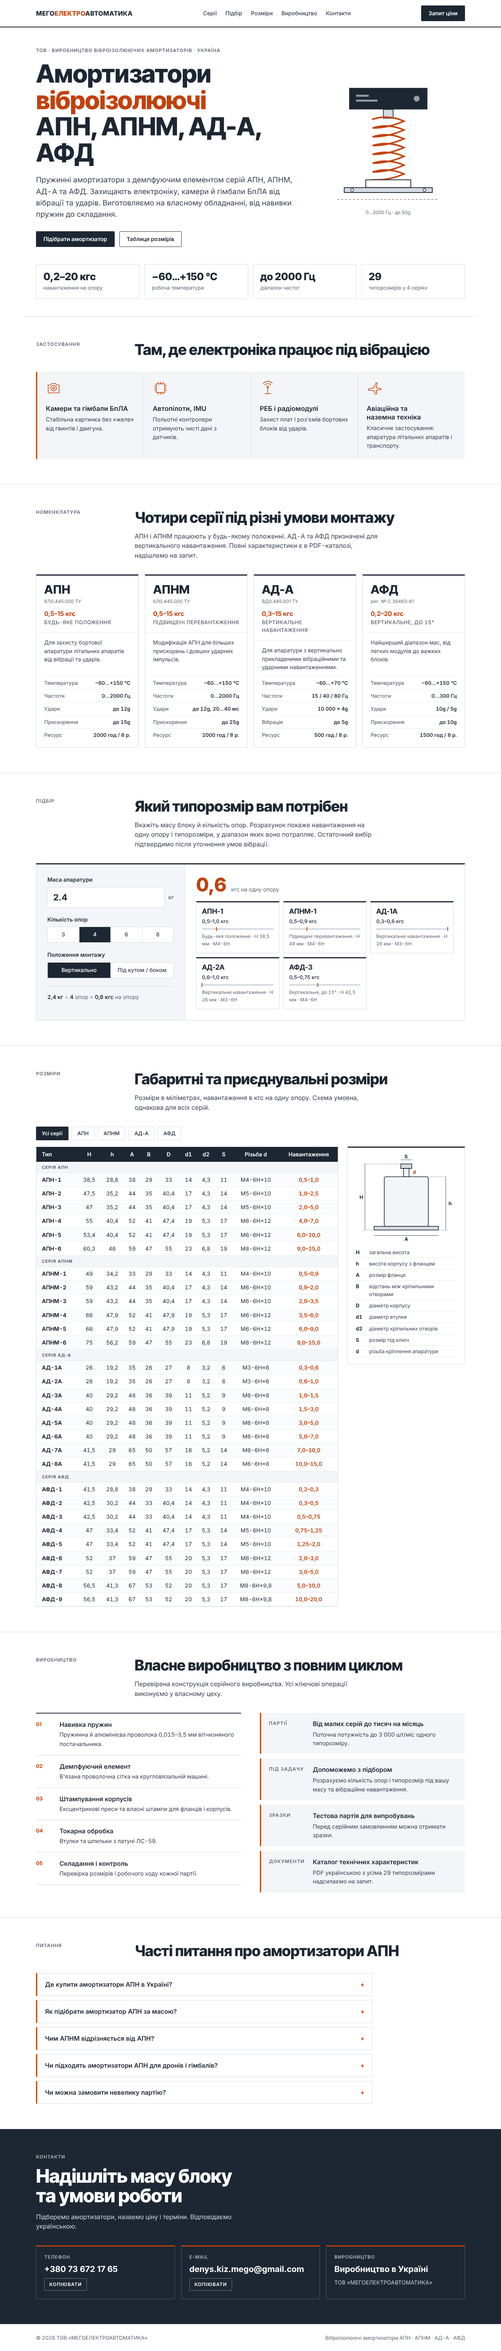
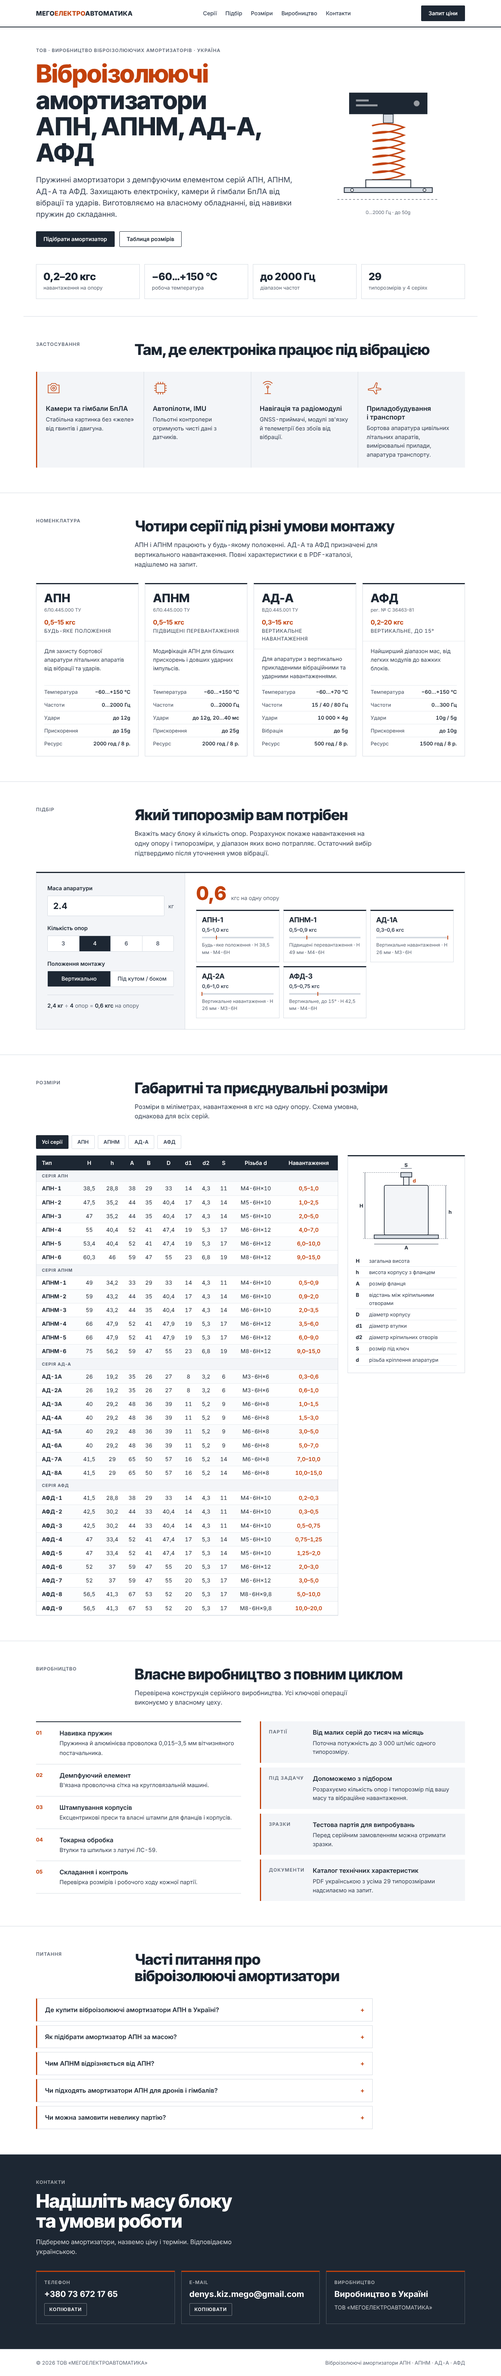
Neutral civil-aviation positioning: drop РЕБ mentions (#5)
Claude-Session: https://claude.ai/code/session_01TnF1fdaB3bLdkCLHeSbq31

diff --git a/index.html b/index.html
@@ -11,7 +11,7 @@
 <meta property="og:title" content="Віброізолюючі амортизатори АПН, АПНМ, АД-А, АФД від виробника">
 <meta property="og:description" content="29 типорозмірів віброізолюючих амортизаторів. Виробництво в Україні, підбір за масою, партії під замовлення.">
 <meta property="og:locale" content="uk_UA">
-<script type="application/ld+json">[{"@context": "https://schema.org", "@type": "Organization", "@id": "https://megoelectro.com.ua/#org", "name": "ТОВ «МЕГОЕЛЕКТРОАВТОМАТИКА»", "alternateName": "MEGOELECTROAVTOMATIKA", "url": "https://megoelectro.com.ua/", "email": "denys.kiz.mego@gmail.com", "telephone": "+380736721765", "areaServed": "UA", "address": {"@type": "PostalAddress", "addressCountry": "UA"}, "description": "Виробник віброізолюючих амортизаторів АПН, АПНМ, АД-А, АФД в Україні."}, {"@context": "https://schema.org", "@type": "ItemList", "name": "Амортизатори АПН, АПНМ, АД-А, АФД", "itemListElement": [{"@type": "ListItem", "position": 1, "item": {"@type": "Product", "name": "Амортизатор АПН-1", "sku": "АПН-1", "brand": {"@type": "Brand", "name": "МЕГОЕЛЕКТРОАВТОМАТИКА"}, "description": "Віброізолюючий амортизатор АПН-1, навантаження 0,5–1,0 кгс на опору, висота H 38,5 мм, різьба М4-6H×10.", "manufacturer": {"@id": "https://megoelectro.com.ua/#org"}}}, {"@type": "ListItem", "position": 2, "item": {"@type": "Product", "name": "Амортизатор АПН-2", "sku": "АПН-2", "brand": {"@type": "Brand", "name": "МЕГОЕЛЕКТРОАВТОМАТИКА"}, "description": "Віброізолюючий амортизатор АПН-2, навантаження 1,0–2,5 кгс на опору, висота H 47,5 мм, різьба М5-6H×10.", "manufacturer": {"@id": "https://megoelectro.com.ua/#org"}}}, {"@type": "ListItem", "position": 3, "item": {"@type": "Product", "name": "Амортизатор АПН-3", "sku": "АПН-3", "brand": {"@type": "Brand", "name": "МЕГОЕЛЕКТРОАВТОМАТИКА"}, "description": "Віброізолюючий амортизатор АПН-3, навантаження 2,0–5,0 кгс на опору, висота H 47,0 мм, різьба М5-6H×10.", "manufacturer": {"@id": "https://megoelectro.com.ua/#org"}}}, {"@type": "ListItem", "position": 4, "item": {"@type": "Product", "name": "Амортизатор АПН-4", "sku": "АПН-4", "brand": {"@type": "Brand", "name": "МЕГОЕЛЕКТРОАВТОМАТИКА"}, "description": "Віброізолюючий амортизатор АПН-4, навантаження 4,0–7,0 кгс на опору, висота H 55,0 мм, різьба М6-6H×12.", "manufacturer": {"@id": "https://megoelectro.com.ua/#org"}}}, {"@type": "ListItem", "position": 5, "item": {"@type": "Product", "name": "Амортизатор АПН-5", "sku": "АПН-5", "brand": {"@type": "Brand", "name": "МЕГОЕЛЕКТРОАВТОМАТИКА"}, "description": "Віброізолюючий амортизатор АПН-5, навантаження 6,0–10,0 кгс на опору, висота H 53,4 мм, різьба М6-6H×12.", "manufacturer": {"@id": "https://megoelectro.com.ua/#org"}}}, {"@type": "ListItem", "position": 6, "item": {"@type": "Product", "name": "Амортизатор АПН-6", "sku": "АПН-6", "brand": {"@type": "Brand", "name": "МЕГОЕЛЕКТРОАВТОМАТИКА"}, "description": "Віброізолюючий амортизатор АПН-6, навантаження 9,0–15,0 кгс на опору, висота H 60,3 мм, різьба М8-6H×12.", "manufacturer": {"@id": "https://megoelectro.com.ua/#org"}}}, {"@type": "ListItem", "position": 7, "item": {"@type": "Product", "name": "Амортизатор АПНМ-1", "sku": "АПНМ-1", "brand": {"@type": "Brand", "name": "МЕГОЕЛЕКТРОАВТОМАТИКА"}, "description": "Віброізолюючий амортизатор АПНМ-1, навантаження 0,5–0,9 кгс на опору, висота H 49,0 мм, різьба М4-6H×10.", "manufacturer": {"@id": "https://megoelectro.com.ua/#org"}}}, {"@type": "ListItem", "position": 8, "item": {"@type": "Product", "name": "Амортизатор АПНМ-2", "sku": "АПНМ-2", "brand": {"@type": "Brand", "name": "МЕГОЕЛЕКТРОАВТОМАТИКА"}, "description": "Віброізолюючий амортизатор АПНМ-2, навантаження 0,9–2,0 кгс на опору, висота H 59,0 мм, різьба М6-6H×10.", "manufacturer": {"@id": "https://megoelectro.com.ua/#org"}}}, {"@type": "ListItem", "position": 9, "item": {"@type": "Product", "name": "Амортизатор АПНМ-3", "sku": "АПНМ-3", "brand": {"@type": "Brand", "name": "МЕГОЕЛЕКТРОАВТОМАТИКА"}, "description": "Віброізолюючий амортизатор АПНМ-3, навантаження 2,0–3,5 кгс на опору, висота H 59,0 мм, різьба М6-6H×10.", "manufacturer": {"@id": "https://megoelectro.com.ua/#org"}}}, {"@type": "ListItem", "position": 10, "item": {"@type": "Product", "name": "Амортизатор АПНМ-4", "sku": "АПНМ-4", "brand": {"@type": "Brand", "name": "МЕГОЕЛЕКТРОАВТОМАТИКА"}, "description": "Віброізолюючий амортизатор АПНМ-4, навантаження 3,5–6,0 кгс на опору, висота H 66,0 мм, різьба М6-6H×12.", "manufacturer": {"@id": "https://megoelectro.com.ua/#org"}}}, {"@type": "ListItem", "position": 11, "item": {"@type": "Product", "name": "Амортизатор АПНМ-5", "sku": "АПНМ-5", "brand": {"@type": "Brand", "name": "МЕГОЕЛЕКТРОАВТОМАТИКА"}, "description": "Віброізолюючий амортизатор АПНМ-5, навантаження 6,0–9,0 кгс на опору, висота H 66,0 мм, різьба М6-6H×12.", "manufacturer": {"@id": "https://megoelectro.com.ua/#org"}}}, {"@type": "ListItem", "position": 12, "item": {"@type": "Product", "name": "Амортизатор АПНМ-6", "sku": "АПНМ-6", "brand": {"@type": "Brand", "name": "МЕГОЕЛЕКТРОАВТОМАТИКА"}, "description": "Віброізолюючий амортизатор АПНМ-6, навантаження 9,0–15,0 кгс на опору, висота H 75,0 мм, різьба М8-6H×12.", "manufacturer": {"@id": "https://megoelectro.com.ua/#org"}}}, {"@type": "ListItem", "position": 13, "item": {"@type": "Product", "name": "Амортизатор АД-1А", "sku": "АД-1А", "brand": {"@type": "Brand", "name": "МЕГОЕЛЕКТРОАВТОМАТИКА"}, "description": "Віброізолюючий амортизатор АД-1А, навантаження 0,3–0,6 кгс на опору, висота H 26,0 мм, різьба М3-6H×6.", "manufacturer": {"@id": "https://megoelectro.com.ua/#org"}}}, {"@type": "ListItem", "position": 14, "item": {"@type": "Product", "name": "Амортизатор АД-2А", "sku": "АД-2А", "brand": {"@type": "Brand", "name": "МЕГОЕЛЕКТРОАВТОМАТИКА"}, "description": "Віброізолюючий амортизатор АД-2А, навантаження 0,6–1,0 кгс на опору, висота H 26,0 мм, різьба М3-6H×6.", "manufacturer": {"@id": "https://megoelectro.com.ua/#org"}}}, {"@type": "ListItem", "position": 15, "item": {"@type": "Product", "name": "Амортизатор АД-3А", "sku": "АД-3А", "brand": {"@type": "Brand", "name": "МЕГОЕЛЕКТРОАВТОМАТИКА"}, "description": "Віброізолюючий амортизатор АД-3А, навантаження 1,0–1,5 кгс на опору, висота H 40,0 мм, різьба М6-6H×8.", "manufacturer": {"@id": "https://megoelectro.com.ua/#org"}}}, {"@type": "ListItem", "position": 16, "item": {"@type": "Product", "name": "Амортизатор АД-4А", "sku": "АД-4А", "brand": {"@type": "Brand", "name": "МЕГОЕЛЕКТРОАВТОМАТИКА"}, "description": "Віброізолюючий амортизатор АД-4А, навантаження 1,5–3,0 кгс на опору, висота H 40,0 мм, різьба М6-6H×8.", "manufacturer": {"@id": "https://megoelectro.com.ua/#org"}}}, {"@type": "ListItem", "position": 17, "item": {"@type": "Product", "name": "Амортизатор АД-5А", "sku": "АД-5А", "brand": {"@type": "Brand", "name": "МЕГОЕЛЕКТРОАВТОМАТИКА"}, "description": "Віброізолюючий амортизатор АД-5А, навантаження 3,0–5,0 кгс на опору, висота H 40,0 мм, різьба М6-6H×8.", "manufacturer": {"@id": "https://megoelectro.com.ua/#org"}}}, {"@type": "ListItem", "position": 18, "item": {"@type": "Product", "name": "Амортизатор АД-6А", "sku": "АД-6А", "brand": {"@type": "Brand", "name": "МЕГОЕЛЕКТРОАВТОМАТИКА"}, "description": "Віброізолюючий амортизатор АД-6А, навантаження 5,0–7,0 кгс на опору, висота H 40,0 мм, різьба М6-6H×8.", "manufacturer": {"@id": "https://megoelectro.com.ua/#org"}}}, {"@type": "ListItem", "position": 19, "item": {"@type": "Product", "name": "Амортизатор АД-7А", "sku": "АД-7А", "brand": {"@type": "Brand", "name": "МЕГОЕЛЕКТРОАВТОМАТИКА"}, "description": "Віброізолюючий амортизатор АД-7А, навантаження 7,0–10,0 кгс на опору, висота H 41,5 мм, різьба М6-6H×8.", "manufacturer": {"@id": "https://megoelectro.com.ua/#org"}}}, {"@type": "ListItem", "position": 20, "item": {"@type": "Product", "name": "Амортизатор АД-8А", "sku": "АД-8А", "brand": {"@type": "Brand", "name": "МЕГОЕЛЕКТРОАВТОМАТИКА"}, "description": "Віброізолюючий амортизатор АД-8А, навантаження 10,0–15,0 кгс на опору, висота H 41,5 мм, різьба М6-6H×8.", "manufacturer": {"@id": "https://megoelectro.com.ua/#org"}}}, {"@type": "ListItem", "position": 21, "item": {"@type": "Product", "name": "Амортизатор АФД-1", "sku": "АФД-1", "brand": {"@type": "Brand", "name": "МЕГОЕЛЕКТРОАВТОМАТИКА"}, "description": "Віброізолюючий амортизатор АФД-1, навантаження 0,2–0,3 кгс на опору, висота H 41,5 мм, різьба М4-6H×10.", "manufacturer": {"@id": "https://megoelectro.com.ua/#org"}}}, {"@type": "ListItem", "position": 22, "item": {"@type": "Product", "name": "Амортизатор АФД-2", "sku": "АФД-2", "brand": {"@type": "Brand", "name": "МЕГОЕЛЕКТРОАВТОМАТИКА"}, "description": "Віброізолюючий амортизатор АФД-2, навантаження 0,3–0,5 кгс на опору, висота H 42,5 мм, різьба М4-6H×10.", "manufacturer": {"@id": "https://megoelectro.com.ua/#org"}}}, {"@type": "ListItem", "position": 23, "item": {"@type": "Product", "name": "Амортизатор АФД-3", "sku": "АФД-3", "brand": {"@type": "Brand", "name": "МЕГОЕЛЕКТРОАВТОМАТИКА"}, "description": "Віброізолюючий амортизатор АФД-3, навантаження 0,5–0,75 кгс на опору, висота H 42,5 мм, різьба М4-6H×10.", "manufacturer": {"@id": "https://megoelectro.com.ua/#org"}}}, {"@type": "ListItem", "position": 24, "item": {"@type": "Product", "name": "Амортизатор АФД-4", "sku": "АФД-4", "brand": {"@type": "Brand", "name": "МЕГОЕЛЕКТРОАВТОМАТИКА"}, "description": "Віброізолюючий амортизатор АФД-4, навантаження 0,75–1,25 кгс на опору, висота H 47,0 мм, різьба М5-6H×10.", "manufacturer": {"@id": "https://megoelectro.com.ua/#org"}}}, {"@type": "ListItem", "position": 25, "item": {"@type": "Product", "name": "Амортизатор АФД-5", "sku": "АФД-5", "brand": {"@type": "Brand", "name": "МЕГОЕЛЕКТРОАВТОМАТИКА"}, "description": "Віброізолюючий амортизатор АФД-5, навантаження 1,25–2,0 кгс на опору, висота H 47,0 мм, різьба М5-6H×10.", "manufacturer": {"@id": "https://megoelectro.com.ua/#org"}}}, {"@type": "ListItem", "position": 26, "item": {"@type": "Product", "name": "Амортизатор АФД-6", "sku": "АФД-6", "brand": {"@type": "Brand", "name": "МЕГОЕЛЕКТРОАВТОМАТИКА"}, "description": "Віброізолюючий амортизатор АФД-6, навантаження 2,0–3,0 кгс на опору, висота H 52,0 мм, різьба М6-6H×12.", "manufacturer": {"@id": "https://megoelectro.com.ua/#org"}}}, {"@type": "ListItem", "position": 27, "item": {"@type": "Product", "name": "Амортизатор АФД-7", "sku": "АФД-7", "brand": {"@type": "Brand", "name": "МЕГОЕЛЕКТРОАВТОМАТИКА"}, "description": "Віброізолюючий амортизатор АФД-7, навантаження 3,0–5,0 кгс на опору, висота H 52,0 мм, різьба М6-6H×12.", "manufacturer": {"@id": "https://megoelectro.com.ua/#org"}}}, {"@type": "ListItem", "position": 28, "item": {"@type": "Product", "name": "Амортизатор АФД-8", "sku": "АФД-8", "brand": {"@type": "Brand", "name": "МЕГОЕЛЕКТРОАВТОМАТИКА"}, "description": "Віброізолюючий амортизатор АФД-8, навантаження 5,0–10,0 кгс на опору, висота H 56,5 мм, різьба М8-6H×9,8.", "manufacturer": {"@id": "https://megoelectro.com.ua/#org"}}}, {"@type": "ListItem", "position": 29, "item": {"@type": "Product", "name": "Амортизатор АФД-9", "sku": "АФД-9", "brand": {"@type": "Brand", "name": "МЕГОЕЛЕКТРОАВТОМАТИКА"}, "description": "Віброізолюючий амортизатор АФД-9, навантаження 10,0–20,0 кгс на опору, висота H 56,5 мм, різьба М8-6H×9,8.", "manufacturer": {"@id": "https://megoelectro.com.ua/#org"}}}]}, {"@context": "https://schema.org", "@type": "FAQPage", "mainEntity": [{"@type": "Question", "name": "Де купити віброізолюючі амортизатори АПН в Україні?", "acceptedAnswer": {"@type": "Answer", "text": "ТОВ «МЕГОЕЛЕКТРОАВТОМАТИКА» виготовляє амортизатори АПН-1…АПН-6, АПНМ-1…АПНМ-6, АД-1А…АД-8А та АФД-1…АФД-9 на власному виробництві в Україні. Замовлення: +380 73 672 17 65, denys.kiz.mego@gmail.com."}}, {"@type": "Question", "name": "Як підібрати амортизатор АПН за масою?", "acceptedAnswer": {"@type": "Answer", "text": "Розділіть масу апаратури на кількість опор. Отримане навантаження на одну опору має потрапити в діапазон типорозміру: АПН-1 — 0,5–1,0 кгс, АПН-2 — 1,0–2,5 кгс, АПН-3 — 2,0–5,0 кгс, АПН-4 — 4,0–7,0 кгс, АПН-5 — 6,0–10,0 кгс, АПН-6 — 9,0–15,0 кгс."}}, {"@type": "Question", "name": "Чим АПНМ відрізняється від АПН?", "acceptedAnswer": {"@type": "Answer", "text": "АПНМ — модифікація АПН для більших лінійних прискорень (до 25g проти 15g) і довших ударних імпульсів (20…40 мс). Діапазони навантажень близькі, приєднувальні розміри відрізняються висотою."}}, {"@type": "Question", "name": "Чи підходять амортизатори АПН для дронів і гімбалів?", "acceptedAnswer": {"@type": "Answer", "text": "Так. Амортизатори АПН і АФД гасять вібрацію від гвинтів і двигуна, тому їх ставлять під камери, гімбали, автопілоти та блоки РЕБ на БпЛА."}}, {"@type": "Question", "name": "Чи можна замовити невелику партію?", "acceptedAnswer": {"@type": "Answer", "text": "Так. Виготовляємо як малі партії і зразки для випробувань, так і серії до кількох тисяч штук на місяць."}}]}]</script>
+<script type="application/ld+json">[{"@context": "https://schema.org", "@type": "Organization", "@id": "https://megoelectro.com.ua/#org", "name": "ТОВ «МЕГОЕЛЕКТРОАВТОМАТИКА»", "alternateName": "MEGOELECTROAVTOMATIKA", "url": "https://megoelectro.com.ua/", "email": "denys.kiz.mego@gmail.com", "telephone": "+380736721765", "areaServed": "UA", "address": {"@type": "PostalAddress", "addressCountry": "UA"}, "description": "Виробник віброізолюючих амортизаторів АПН, АПНМ, АД-А, АФД в Україні."}, {"@context": "https://schema.org", "@type": "ItemList", "name": "Амортизатори АПН, АПНМ, АД-А, АФД", "itemListElement": [{"@type": "ListItem", "position": 1, "item": {"@type": "Product", "name": "Амортизатор АПН-1", "sku": "АПН-1", "brand": {"@type": "Brand", "name": "МЕГОЕЛЕКТРОАВТОМАТИКА"}, "description": "Віброізолюючий амортизатор АПН-1, навантаження 0,5–1,0 кгс на опору, висота H 38,5 мм, різьба М4-6H×10.", "manufacturer": {"@id": "https://megoelectro.com.ua/#org"}}}, {"@type": "ListItem", "position": 2, "item": {"@type": "Product", "name": "Амортизатор АПН-2", "sku": "АПН-2", "brand": {"@type": "Brand", "name": "МЕГОЕЛЕКТРОАВТОМАТИКА"}, "description": "Віброізолюючий амортизатор АПН-2, навантаження 1,0–2,5 кгс на опору, висота H 47,5 мм, різьба М5-6H×10.", "manufacturer": {"@id": "https://megoelectro.com.ua/#org"}}}, {"@type": "ListItem", "position": 3, "item": {"@type": "Product", "name": "Амортизатор АПН-3", "sku": "АПН-3", "brand": {"@type": "Brand", "name": "МЕГОЕЛЕКТРОАВТОМАТИКА"}, "description": "Віброізолюючий амортизатор АПН-3, навантаження 2,0–5,0 кгс на опору, висота H 47,0 мм, різьба М5-6H×10.", "manufacturer": {"@id": "https://megoelectro.com.ua/#org"}}}, {"@type": "ListItem", "position": 4, "item": {"@type": "Product", "name": "Амортизатор АПН-4", "sku": "АПН-4", "brand": {"@type": "Brand", "name": "МЕГОЕЛЕКТРОАВТОМАТИКА"}, "description": "Віброізолюючий амортизатор АПН-4, навантаження 4,0–7,0 кгс на опору, висота H 55,0 мм, різьба М6-6H×12.", "manufacturer": {"@id": "https://megoelectro.com.ua/#org"}}}, {"@type": "ListItem", "position": 5, "item": {"@type": "Product", "name": "Амортизатор АПН-5", "sku": "АПН-5", "brand": {"@type": "Brand", "name": "МЕГОЕЛЕКТРОАВТОМАТИКА"}, "description": "Віброізолюючий амортизатор АПН-5, навантаження 6,0–10,0 кгс на опору, висота H 53,4 мм, різьба М6-6H×12.", "manufacturer": {"@id": "https://megoelectro.com.ua/#org"}}}, {"@type": "ListItem", "position": 6, "item": {"@type": "Product", "name": "Амортизатор АПН-6", "sku": "АПН-6", "brand": {"@type": "Brand", "name": "МЕГОЕЛЕКТРОАВТОМАТИКА"}, "description": "Віброізолюючий амортизатор АПН-6, навантаження 9,0–15,0 кгс на опору, висота H 60,3 мм, різьба М8-6H×12.", "manufacturer": {"@id": "https://megoelectro.com.ua/#org"}}}, {"@type": "ListItem", "position": 7, "item": {"@type": "Product", "name": "Амортизатор АПНМ-1", "sku": "АПНМ-1", "brand": {"@type": "Brand", "name": "МЕГОЕЛЕКТРОАВТОМАТИКА"}, "description": "Віброізолюючий амортизатор АПНМ-1, навантаження 0,5–0,9 кгс на опору, висота H 49,0 мм, різьба М4-6H×10.", "manufacturer": {"@id": "https://megoelectro.com.ua/#org"}}}, {"@type": "ListItem", "position": 8, "item": {"@type": "Product", "name": "Амортизатор АПНМ-2", "sku": "АПНМ-2", "brand": {"@type": "Brand", "name": "МЕГОЕЛЕКТРОАВТОМАТИКА"}, "description": "Віброізолюючий амортизатор АПНМ-2, навантаження 0,9–2,0 кгс на опору, висота H 59,0 мм, різьба М6-6H×10.", "manufacturer": {"@id": "https://megoelectro.com.ua/#org"}}}, {"@type": "ListItem", "position": 9, "item": {"@type": "Product", "name": "Амортизатор АПНМ-3", "sku": "АПНМ-3", "brand": {"@type": "Brand", "name": "МЕГОЕЛЕКТРОАВТОМАТИКА"}, "description": "Віброізолюючий амортизатор АПНМ-3, навантаження 2,0–3,5 кгс на опору, висота H 59,0 мм, різьба М6-6H×10.", "manufacturer": {"@id": "https://megoelectro.com.ua/#org"}}}, {"@type": "ListItem", "position": 10, "item": {"@type": "Product", "name": "Амортизатор АПНМ-4", "sku": "АПНМ-4", "brand": {"@type": "Brand", "name": "МЕГОЕЛЕКТРОАВТОМАТИКА"}, "description": "Віброізолюючий амортизатор АПНМ-4, навантаження 3,5–6,0 кгс на опору, висота H 66,0 мм, різьба М6-6H×12.", "manufacturer": {"@id": "https://megoelectro.com.ua/#org"}}}, {"@type": "ListItem", "position": 11, "item": {"@type": "Product", "name": "Амортизатор АПНМ-5", "sku": "АПНМ-5", "brand": {"@type": "Brand", "name": "МЕГОЕЛЕКТРОАВТОМАТИКА"}, "description": "Віброізолюючий амортизатор АПНМ-5, навантаження 6,0–9,0 кгс на опору, висота H 66,0 мм, різьба М6-6H×12.", "manufacturer": {"@id": "https://megoelectro.com.ua/#org"}}}, {"@type": "ListItem", "position": 12, "item": {"@type": "Product", "name": "Амортизатор АПНМ-6", "sku": "АПНМ-6", "brand": {"@type": "Brand", "name": "МЕГОЕЛЕКТРОАВТОМАТИКА"}, "description": "Віброізолюючий амортизатор АПНМ-6, навантаження 9,0–15,0 кгс на опору, висота H 75,0 мм, різьба М8-6H×12.", "manufacturer": {"@id": "https://megoelectro.com.ua/#org"}}}, {"@type": "ListItem", "position": 13, "item": {"@type": "Product", "name": "Амортизатор АД-1А", "sku": "АД-1А", "brand": {"@type": "Brand", "name": "МЕГОЕЛЕКТРОАВТОМАТИКА"}, "description": "Віброізолюючий амортизатор АД-1А, навантаження 0,3–0,6 кгс на опору, висота H 26,0 мм, різьба М3-6H×6.", "manufacturer": {"@id": "https://megoelectro.com.ua/#org"}}}, {"@type": "ListItem", "position": 14, "item": {"@type": "Product", "name": "Амортизатор АД-2А", "sku": "АД-2А", "brand": {"@type": "Brand", "name": "МЕГОЕЛЕКТРОАВТОМАТИКА"}, "description": "Віброізолюючий амортизатор АД-2А, навантаження 0,6–1,0 кгс на опору, висота H 26,0 мм, різьба М3-6H×6.", "manufacturer": {"@id": "https://megoelectro.com.ua/#org"}}}, {"@type": "ListItem", "position": 15, "item": {"@type": "Product", "name": "Амортизатор АД-3А", "sku": "АД-3А", "brand": {"@type": "Brand", "name": "МЕГОЕЛЕКТРОАВТОМАТИКА"}, "description": "Віброізолюючий амортизатор АД-3А, навантаження 1,0–1,5 кгс на опору, висота H 40,0 мм, різьба М6-6H×8.", "manufacturer": {"@id": "https://megoelectro.com.ua/#org"}}}, {"@type": "ListItem", "position": 16, "item": {"@type": "Product", "name": "Амортизатор АД-4А", "sku": "АД-4А", "brand": {"@type": "Brand", "name": "МЕГОЕЛЕКТРОАВТОМАТИКА"}, "description": "Віброізолюючий амортизатор АД-4А, навантаження 1,5–3,0 кгс на опору, висота H 40,0 мм, різьба М6-6H×8.", "manufacturer": {"@id": "https://megoelectro.com.ua/#org"}}}, {"@type": "ListItem", "position": 17, "item": {"@type": "Product", "name": "Амортизатор АД-5А", "sku": "АД-5А", "brand": {"@type": "Brand", "name": "МЕГОЕЛЕКТРОАВТОМАТИКА"}, "description": "Віброізолюючий амортизатор АД-5А, навантаження 3,0–5,0 кгс на опору, висота H 40,0 мм, різьба М6-6H×8.", "manufacturer": {"@id": "https://megoelectro.com.ua/#org"}}}, {"@type": "ListItem", "position": 18, "item": {"@type": "Product", "name": "Амортизатор АД-6А", "sku": "АД-6А", "brand": {"@type": "Brand", "name": "МЕГОЕЛЕКТРОАВТОМАТИКА"}, "description": "Віброізолюючий амортизатор АД-6А, навантаження 5,0–7,0 кгс на опору, висота H 40,0 мм, різьба М6-6H×8.", "manufacturer": {"@id": "https://megoelectro.com.ua/#org"}}}, {"@type": "ListItem", "position": 19, "item": {"@type": "Product", "name": "Амортизатор АД-7А", "sku": "АД-7А", "brand": {"@type": "Brand", "name": "МЕГОЕЛЕКТРОАВТОМАТИКА"}, "description": "Віброізолюючий амортизатор АД-7А, навантаження 7,0–10,0 кгс на опору, висота H 41,5 мм, різьба М6-6H×8.", "manufacturer": {"@id": "https://megoelectro.com.ua/#org"}}}, {"@type": "ListItem", "position": 20, "item": {"@type": "Product", "name": "Амортизатор АД-8А", "sku": "АД-8А", "brand": {"@type": "Brand", "name": "МЕГОЕЛЕКТРОАВТОМАТИКА"}, "description": "Віброізолюючий амортизатор АД-8А, навантаження 10,0–15,0 кгс на опору, висота H 41,5 мм, різьба М6-6H×8.", "manufacturer": {"@id": "https://megoelectro.com.ua/#org"}}}, {"@type": "ListItem", "position": 21, "item": {"@type": "Product", "name": "Амортизатор АФД-1", "sku": "АФД-1", "brand": {"@type": "Brand", "name": "МЕГОЕЛЕКТРОАВТОМАТИКА"}, "description": "Віброізолюючий амортизатор АФД-1, навантаження 0,2–0,3 кгс на опору, висота H 41,5 мм, різьба М4-6H×10.", "manufacturer": {"@id": "https://megoelectro.com.ua/#org"}}}, {"@type": "ListItem", "position": 22, "item": {"@type": "Product", "name": "Амортизатор АФД-2", "sku": "АФД-2", "brand": {"@type": "Brand", "name": "МЕГОЕЛЕКТРОАВТОМАТИКА"}, "description": "Віброізолюючий амортизатор АФД-2, навантаження 0,3–0,5 кгс на опору, висота H 42,5 мм, різьба М4-6H×10.", "manufacturer": {"@id": "https://megoelectro.com.ua/#org"}}}, {"@type": "ListItem", "position": 23, "item": {"@type": "Product", "name": "Амортизатор АФД-3", "sku": "АФД-3", "brand": {"@type": "Brand", "name": "МЕГОЕЛЕКТРОАВТОМАТИКА"}, "description": "Віброізолюючий амортизатор АФД-3, навантаження 0,5–0,75 кгс на опору, висота H 42,5 мм, різьба М4-6H×10.", "manufacturer": {"@id": "https://megoelectro.com.ua/#org"}}}, {"@type": "ListItem", "position": 24, "item": {"@type": "Product", "name": "Амортизатор АФД-4", "sku": "АФД-4", "brand": {"@type": "Brand", "name": "МЕГОЕЛЕКТРОАВТОМАТИКА"}, "description": "Віброізолюючий амортизатор АФД-4, навантаження 0,75–1,25 кгс на опору, висота H 47,0 мм, різьба М5-6H×10.", "manufacturer": {"@id": "https://megoelectro.com.ua/#org"}}}, {"@type": "ListItem", "position": 25, "item": {"@type": "Product", "name": "Амортизатор АФД-5", "sku": "АФД-5", "brand": {"@type": "Brand", "name": "МЕГОЕЛЕКТРОАВТОМАТИКА"}, "description": "Віброізолюючий амортизатор АФД-5, навантаження 1,25–2,0 кгс на опору, висота H 47,0 мм, різьба М5-6H×10.", "manufacturer": {"@id": "https://megoelectro.com.ua/#org"}}}, {"@type": "ListItem", "position": 26, "item": {"@type": "Product", "name": "Амортизатор АФД-6", "sku": "АФД-6", "brand": {"@type": "Brand", "name": "МЕГОЕЛЕКТРОАВТОМАТИКА"}, "description": "Віброізолюючий амортизатор АФД-6, навантаження 2,0–3,0 кгс на опору, висота H 52,0 мм, різьба М6-6H×12.", "manufacturer": {"@id": "https://megoelectro.com.ua/#org"}}}, {"@type": "ListItem", "position": 27, "item": {"@type": "Product", "name": "Амортизатор АФД-7", "sku": "АФД-7", "brand": {"@type": "Brand", "name": "МЕГОЕЛЕКТРОАВТОМАТИКА"}, "description": "Віброізолюючий амортизатор АФД-7, навантаження 3,0–5,0 кгс на опору, висота H 52,0 мм, різьба М6-6H×12.", "manufacturer": {"@id": "https://megoelectro.com.ua/#org"}}}, {"@type": "ListItem", "position": 28, "item": {"@type": "Product", "name": "Амортизатор АФД-8", "sku": "АФД-8", "brand": {"@type": "Brand", "name": "МЕГОЕЛЕКТРОАВТОМАТИКА"}, "description": "Віброізолюючий амортизатор АФД-8, навантаження 5,0–10,0 кгс на опору, висота H 56,5 мм, різьба М8-6H×9,8.", "manufacturer": {"@id": "https://megoelectro.com.ua/#org"}}}, {"@type": "ListItem", "position": 29, "item": {"@type": "Product", "name": "Амортизатор АФД-9", "sku": "АФД-9", "brand": {"@type": "Brand", "name": "МЕГОЕЛЕКТРОАВТОМАТИКА"}, "description": "Віброізолюючий амортизатор АФД-9, навантаження 10,0–20,0 кгс на опору, висота H 56,5 мм, різьба М8-6H×9,8.", "manufacturer": {"@id": "https://megoelectro.com.ua/#org"}}}]}, {"@context": "https://schema.org", "@type": "FAQPage", "mainEntity": [{"@type": "Question", "name": "Де купити віброізолюючі амортизатори АПН в Україні?", "acceptedAnswer": {"@type": "Answer", "text": "ТОВ «МЕГОЕЛЕКТРОАВТОМАТИКА» виготовляє амортизатори АПН-1…АПН-6, АПНМ-1…АПНМ-6, АД-1А…АД-8А та АФД-1…АФД-9 на власному виробництві в Україні. Замовлення: +380 73 672 17 65, denys.kiz.mego@gmail.com."}}, {"@type": "Question", "name": "Як підібрати амортизатор АПН за масою?", "acceptedAnswer": {"@type": "Answer", "text": "Розділіть масу апаратури на кількість опор. Отримане навантаження на одну опору має потрапити в діапазон типорозміру: АПН-1 — 0,5–1,0 кгс, АПН-2 — 1,0–2,5 кгс, АПН-3 — 2,0–5,0 кгс, АПН-4 — 4,0–7,0 кгс, АПН-5 — 6,0–10,0 кгс, АПН-6 — 9,0–15,0 кгс."}}, {"@type": "Question", "name": "Чим АПНМ відрізняється від АПН?", "acceptedAnswer": {"@type": "Answer", "text": "АПНМ — модифікація АПН для більших лінійних прискорень (до 25g проти 15g) і довших ударних імпульсів (20…40 мс). Діапазони навантажень близькі, приєднувальні розміри відрізняються висотою."}}, {"@type": "Question", "name": "Чи підходять амортизатори АПН для дронів і гімбалів?", "acceptedAnswer": {"@type": "Answer", "text": "Так. Амортизатори АПН і АФД гасять вібрацію від гвинтів і двигуна, тому їх ставлять під камери, гімбали, автопілоти, навігаційні та радіомодулі на БпЛА і пілотованих літальних апаратах."}}, {"@type": "Question", "name": "Чи можна замовити невелику партію?", "acceptedAnswer": {"@type": "Answer", "text": "Так. Виготовляємо як малі партії і зразки для випробувань, так і серії до кількох тисяч штук на місяць."}}]}]</script>
 <link rel="preconnect" href="https://fonts.googleapis.com">
 <link rel="preconnect" href="https://fonts.gstatic.com" crossorigin>
 <link rel="stylesheet" href="https://fonts.googleapis.com/css2?family=Inter:wght@400;500;600;700;800&family=Inter+Tight:wght@700;800&display=swap">
@@ -287,11 +287,11 @@ footer .wrap{display:flex;justify-content:space-between;gap:16px;flex-wrap:wrap}
         </div>
         <div class="app">
           <svg viewBox="0 0 40 40"><path d="M20 34V18"/><path d="M12 12a11 11 0 0 1 16 0M8 8a16 16 0 0 1 24 0"/><circle cx="20" cy="17" r="2.5"/><path d="M12 34h16"/></svg>
-          <h3>РЕБ і радіомодулі</h3><p>Захист плат і роз'ємів бортових блоків від ударів.</p>
+          <h3>Навігація та радіомодулі</h3><p>GNSS-приймачі, модулі зв'язку й телеметрії без збоїв від вібрації.</p>
         </div>
         <div class="app">
           <svg viewBox="0 0 40 40"><path d="M4 22l14-3 6-13 3 1-3 12 12 2v3l-12 1 2 9-3 1-6-9-13-1z"/></svg>
-          <h3>Авіаційна та наземна техніка</h3><p>Класичне застосування: апаратура літальних апаратів і транспорту.</p>
+          <h3>Приладобудування і транспорт</h3><p>Бортова апаратура цивільних літальних апаратів, вимірювальні прилади, апаратура транспорту.</p>
         </div>
       </div>
     </div>
@@ -421,7 +421,7 @@ footer .wrap{display:flex;justify-content:space-between;gap:16px;flex-wrap:wrap}
         <details><summary>Де купити віброізолюючі амортизатори АПН в Україні?</summary><p>ТОВ «МЕГОЕЛЕКТРОАВТОМАТИКА» виготовляє амортизатори АПН-1…АПН-6, АПНМ-1…АПНМ-6, АД-1А…АД-8А та АФД-1…АФД-9 на власному виробництві в Україні. Замовлення: +380 73 672 17 65, denys.kiz.mego@gmail.com.</p></details>
         <details><summary>Як підібрати амортизатор АПН за масою?</summary><p>Розділіть масу апаратури на кількість опор. Отримане навантаження на одну опору має потрапити в діапазон типорозміру: АПН-1 — 0,5–1,0 кгс, АПН-2 — 1,0–2,5 кгс, АПН-3 — 2,0–5,0 кгс, АПН-4 — 4,0–7,0 кгс, АПН-5 — 6,0–10,0 кгс, АПН-6 — 9,0–15,0 кгс.</p></details>
         <details><summary>Чим АПНМ відрізняється від АПН?</summary><p>АПНМ — модифікація АПН для більших лінійних прискорень (до 25g проти 15g) і довших ударних імпульсів (20…40 мс). Діапазони навантажень близькі, приєднувальні розміри відрізняються висотою.</p></details>
-        <details><summary>Чи підходять амортизатори АПН для дронів і гімбалів?</summary><p>Так. Амортизатори АПН і АФД гасять вібрацію від гвинтів і двигуна, тому їх ставлять під камери, гімбали, автопілоти та блоки РЕБ на БпЛА.</p></details>
+        <details><summary>Чи підходять амортизатори АПН для дронів і гімбалів?</summary><p>Так. Амортизатори АПН і АФД гасять вібрацію від гвинтів і двигуна, тому їх ставлять під камери, гімбали, автопілоти, навігаційні та радіомодулі на БпЛА і пілотованих літальних апаратах.</p></details>
         <details><summary>Чи можна замовити невелику партію?</summary><p>Так. Виготовляємо як малі партії і зразки для випробувань, так і серії до кількох тисяч штук на місяць.</p></details>
       </div>
     </div>
